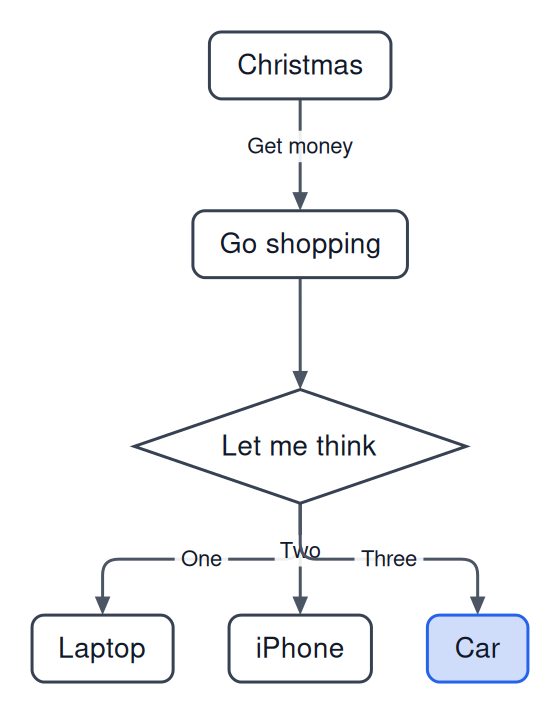
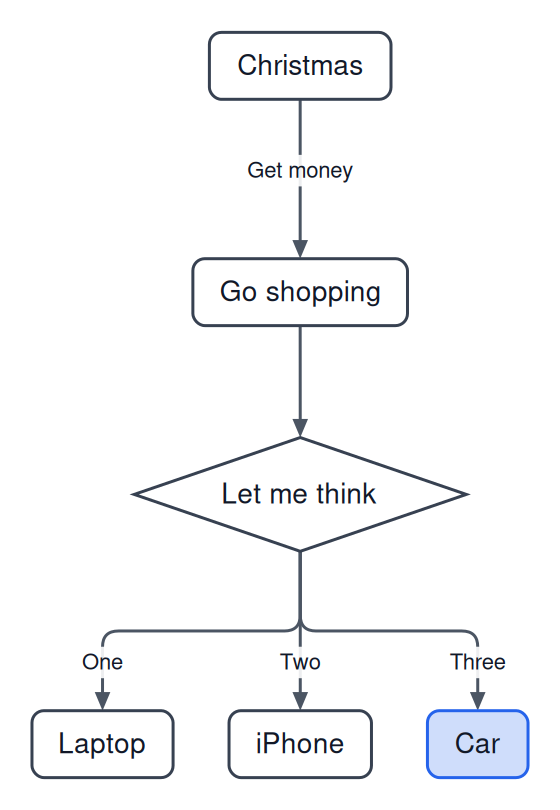
fix: label placement, ER heads and empty-label circles

diff --git a/src/nodal/scene.py b/src/nodal/scene.py
@@ -18,6 +18,7 @@ from .style import box4, px
 from .text import measure
 
 TITLE_PAD = 6.0
+ER_HEADS = ("one", "many", "zero-one", "zero-many", "one-many")
 
 
 class SceneBuilder:
@@ -214,9 +215,7 @@ class SceneBuilder:
         arrow = e.attrs.get("arrow", e.arrow if e.arrow != "none" or "arrow" not in st else st["arrow"])
         if "arrow" in st and "arrow" not in e.attrs and e.arrow == "end":
             arrow = st["arrow"]
-        head = st.get("head", "triangle")
         pts = list(pts)
-        tip_end, tip_start = pts[-1], pts[0]
         hl = px(st.get("head-size"), min(18.0, 6.0 + width * 2.2))
         free = route == "straight" or flow_dir(lca(self.doc.items[e.src], self.doc.items[e.dst],
                                                    self.doc.root)) == "auto"
@@ -232,14 +231,15 @@ class SceneBuilder:
             return dx / l, dy / l
 
         heads = []
-        if arrow in ("end", "both"):
-            d_end = end_dir(tip_end, pts[-2])
-            heads.append((tip_end, d_end))
-            pts[-1] = (tip_end[0] - d_end[0] * hl * 0.9, tip_end[1] - d_end[1] * hl * 0.9)
-        if arrow in ("start", "both"):
-            d_st = end_dir(tip_start, pts[1])
-            heads.append((tip_start, d_st))
-            pts[0] = (tip_start[0] - d_st[0] * hl * 0.9, tip_start[1] - d_st[1] * hl * 0.9)
+        for end, nb, want, key in ((-1, -2, ("end", "both"), "head"), (0, 1, ("start", "both"), "head-start")):
+            if arrow not in want:
+                continue
+            kind = st.get(key, st.get("head", "triangle"))
+            tip = pts[end]
+            dv = end_dir(tip, pts[nb])
+            heads.append((kind, tip, dv))
+            if kind not in ER_HEADS:  # stroke stops at the head's base; ER lines run to the box
+                pts[end] = (tip[0] - dv[0] * hl * 0.9, tip[1] - dv[1] * hl * 0.9)
         stub = px(st["stub"]) if "stub" in st else None
         if stub is not None and heads:
             stub += hl
@@ -280,15 +280,17 @@ class SceneBuilder:
                                          paint=dict(base, **{"stroke-width": fwidth, "stroke-dasharray": fdash,
                                                              "stroke-linecap": "round"}),
                                          tracks=tracks))
-        for tip, dvec in heads:
-            out.children.append(self.head(head, tip, dvec, hl, color, width))
+        for kind, tip, dvec in heads:
+            out.children.append(self.head(kind, tip, dvec, hl, color, width,
+                                          self.doc.root.style.get("background", "#ffffff")))
         if e.label:
             out.children += self.edge_label(e, self.edge_polys[e.id])
         return out
 
     @staticmethod
-    def head(kind, tip, d, hl, color, width) -> Elem:
-        """Arrowhead as plain geometry: tip sits exactly on the target outline."""
+    def head(kind, tip, d, hl, color, width, bg="#ffffff") -> Elem:
+        """Arrowhead as plain geometry: tip sits exactly on the target outline.
+        ER heads (crow's foot): one, many, zero-one, zero-many, one-many."""
         tx, ty = tip
         ux, uy = d
         nx, ny = -uy, ux
@@ -296,31 +298,46 @@ class SceneBuilder:
 
         def P(a, b):  # a along -d from tip, b along normal
             return (tx - ux * a + nx * b, ty - uy * a + ny * b)
-        if kind == "open":
-            return Elem("polyline", cls="nodal-head", geom={"points": [P(hl, hw), P(0, 0), P(hl, -hw)]},
-                        paint={"fill": "none", "stroke": color, "stroke-width": max(1.2, width * 0.8),
-                               "stroke-linejoin": "miter"})
-        if kind == "diamond":
-            return Elem("polygon", cls="nodal-head",
-                        geom={"points": [P(0, 0), P(hl / 2, hw), P(hl, 0), P(hl / 2, -hw)]}, paint={"fill": color})
+
+        line = {"fill": "none", "stroke": color, "stroke-width": max(1.2, width)}
+        bar = lambda a: Elem("polyline", geom={"points": [P(a, hw), P(a, -hw)]}, paint=line)  # noqa: E731
+        crow = Elem("polyline", geom={"points": [P(0, hw), P(hl, 0), P(0, -hw)]}, paint=line)
+        ring = Elem("circle", geom={"cx": P(hl * 1.5, 0)[0], "cy": P(hl * 1.5, 0)[1], "r": hw * 0.6},
+                    paint=dict(line, fill=bg))
+        er = {"one": [bar(hl * 0.5), bar(hl * 0.9)], "many": [crow], "zero-one": [bar(hl * 0.5), ring],
+              "zero-many": [crow, ring], "one-many": [crow, bar(hl * 1.3)]}
+        if kind in ER_HEADS:
+            return Elem("group", cls="nodal-head", children=er[kind])
+        shapes = {
+            "open": ("polyline", [P(hl, hw), P(0, 0), P(hl, -hw)], dict(line, **{"stroke-linejoin": "miter"})),
+            "diamond": ("polygon", [P(0, 0), P(hl / 2, hw), P(hl, 0), P(hl / 2, -hw)], {"fill": color}),
+            "bar": ("polyline", [P(0, hw), P(0, -hw)], dict(line, **{"stroke-width": max(2, width)})),
+        }
         if kind == "dot":
-            r = hl / 2.2
-            return Elem("circle", cls="nodal-head", geom={"cx": tx - ux * r, "cy": ty - uy * r, "r": r},
-                        paint={"fill": color})
-        if kind == "bar":
-            return Elem("line", cls="nodal-head",
-                        geom={"x1": tx + nx * hw, "y1": ty + ny * hw, "x2": tx - nx * hw, "y2": ty - ny * hw},
-                        paint={"stroke": color, "stroke-width": max(2, width)})
-        return Elem("polygon", cls="nodal-head", geom={"points": [P(0, 0), P(hl, hw), P(hl, -hw)]},
-                    paint={"fill": color})
+            c = P(hl / 2.2, 0)
+            return Elem("circle", cls="nodal-head", geom={"cx": c[0], "cy": c[1], "r": hl / 2.2}, paint={"fill": color})
+        tag, pts, paint = shapes.get(kind, ("polygon", [P(0, 0), P(hl, hw), P(hl, -hw)], {"fill": color}))
+        return Elem(tag, cls="nodal-head", geom={"points": pts}, paint=paint)
 
     def edge_label(self, e, poly) -> list[Elem]:
-        st = e.style
+        st = e.label_style or e.style
         fs = px(st.get("font-size"), 11)
         w, h, lines = measure(e.label, st.get("font-family", "sans-serif"), fs)
-        # longest straight run of the drawn path
-        best = max(zip(poly, poly[1:]), key=lambda s: math.hypot(s[1][0] - s[0][0], s[1][1] - s[0][1]))
-        mx, my = (best[0][0] + best[1][0]) / 2, (best[0][1] + best[1][1]) / 2
+        # bent edges: the run into the target is the edge's own (a fan-out bus is shared),
+        # so labels go there when it fits; otherwise the longest run
+        segs = list(zip(poly, poly[1:]))
+        fits = len(segs) > 1 and math.dist(*segs[-1]) >= h + 4
+        best = segs[-1] if fits else max(segs, key=lambda s: math.dist(*s))
+        (ax, ay), (bx, by) = best
+        t = 0.5
+        lvl = self.router.bend_level.get(e.id) if any(
+            o is not e and o.src == e.src and self.router.bend_level.get(o.id) is not None for o in self.doc.edges) else None
+        if len(segs) == 1 and lvl is not None:  # straight sibling of a fan-out: below the bus too
+            v = abs(bx - ax) < abs(by - ay)
+            a0, a1 = (ay, by) if v else (ax, bx)
+            if min(a0, a1) < lvl < max(a0, a1):
+                t = ((lvl + a1) / 2 - a0) / (a1 - a0)
+        mx, my = ax + (bx - ax) * t, ay + (by - ay) * t
         bg = st.get("background", self.doc.root.style.get("background", "#ffffff"))
         box = Elem("rect", cls="nodal-label-bg", geom={"x": mx - w / 2 - 3, "y": my - h / 2 - 1, "w": w + 6,
                                                        "h": h + 2, "rx": 3},

diff --git a/tests/test_fixes.py b/tests/test_fixes.py
@@ -1,0 +1,31 @@
+"""Regression tests for labels, ER heads, empty-label circles and the label selector."""
+from nodal import build_scene, parse, render
+
+
+def _node_rect(sc, nid):
+    el = next(e for e in sc.walk() if e.id == nid)
+    return next(c for c in el.children if c.kind in ("rect", "ellipse")).geom
+
+
+def test_empty_label_circle_is_round():
+    g = _node_rect(build_scene(parse('s "" shape=circle\ns -> a\n')), "s")
+    assert g["rx"] == g["ry"] and g["rx"] * 2 <= 20
+
+
+def test_fanout_labels_do_not_overlap():
+    sc = build_scene(parse('graph route=ortho\nC\nC -> D "One"\nC -> E "Two"\nC -> F "Three"\n'))
+    boxes = [(g["x"], g["y"], g["w"], g["h"]) for g in (e.geom for e in sc.walk() if e.cls == "nodal-label-bg")]
+    assert len(boxes) == 3
+    for i, (x, y, w, h) in enumerate(boxes):
+        for (x2, y2, w2, h2) in boxes[i + 1:]:
+            assert x + w <= x2 or x2 + w2 <= x or y + h <= y2 or y2 + h2 <= y
+
+
+def test_er_heads_and_head_start():
+    svg = render("graph route=ortho\na -- b arrow=both head=many head-start=one\n")
+    assert svg.count('class="nodal-head"') == 2
+
+
+def test_label_selector():
+    svg = render('css { edge.hot label { color: #ff0000; font-size: 15px; } }\na -> b "x" .hot\n')
+    assert 'fill="#ff0000"' in svg and 'font-size="15"' in svg
